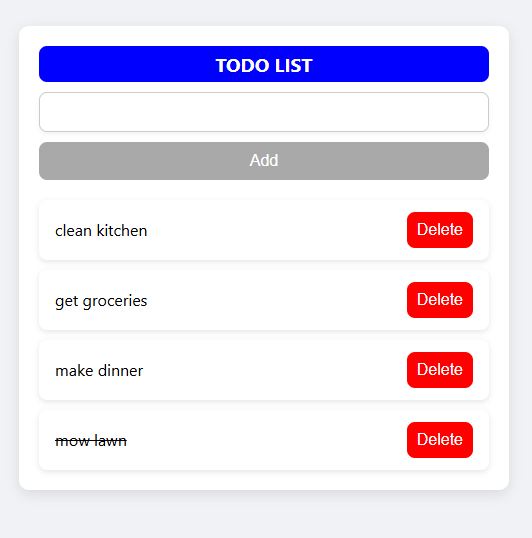
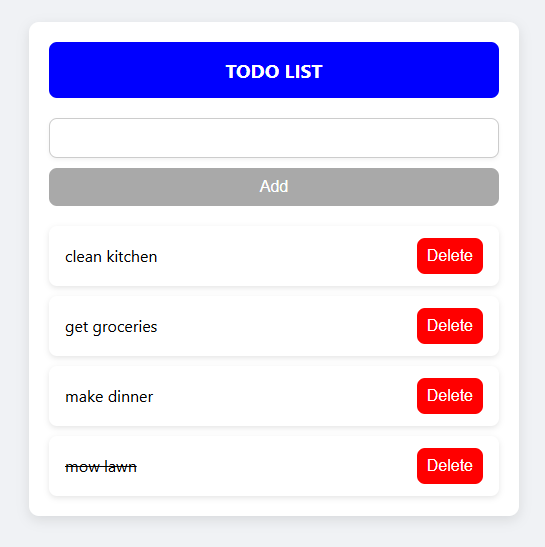
updated styling and preview .png

diff --git a/frontend/src/App.css b/frontend/src/App.css
@@ -69,8 +69,8 @@ body, html {
   text-align: center;
   font-size: larger;
   border-radius: 8px;
-  padding: 5px;
-  margin: 0 0 10px;
+  padding: 15px;
+  margin: 0 0 20px;
 }
 
 .todo-container input {
